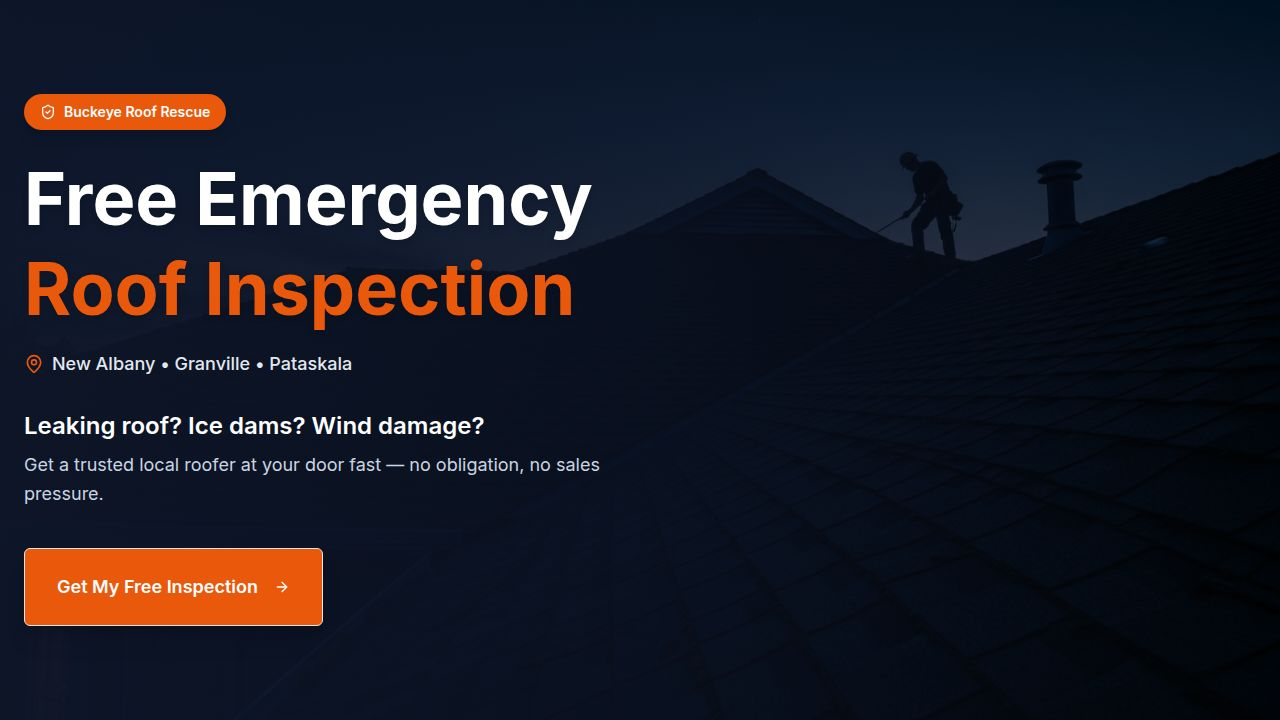
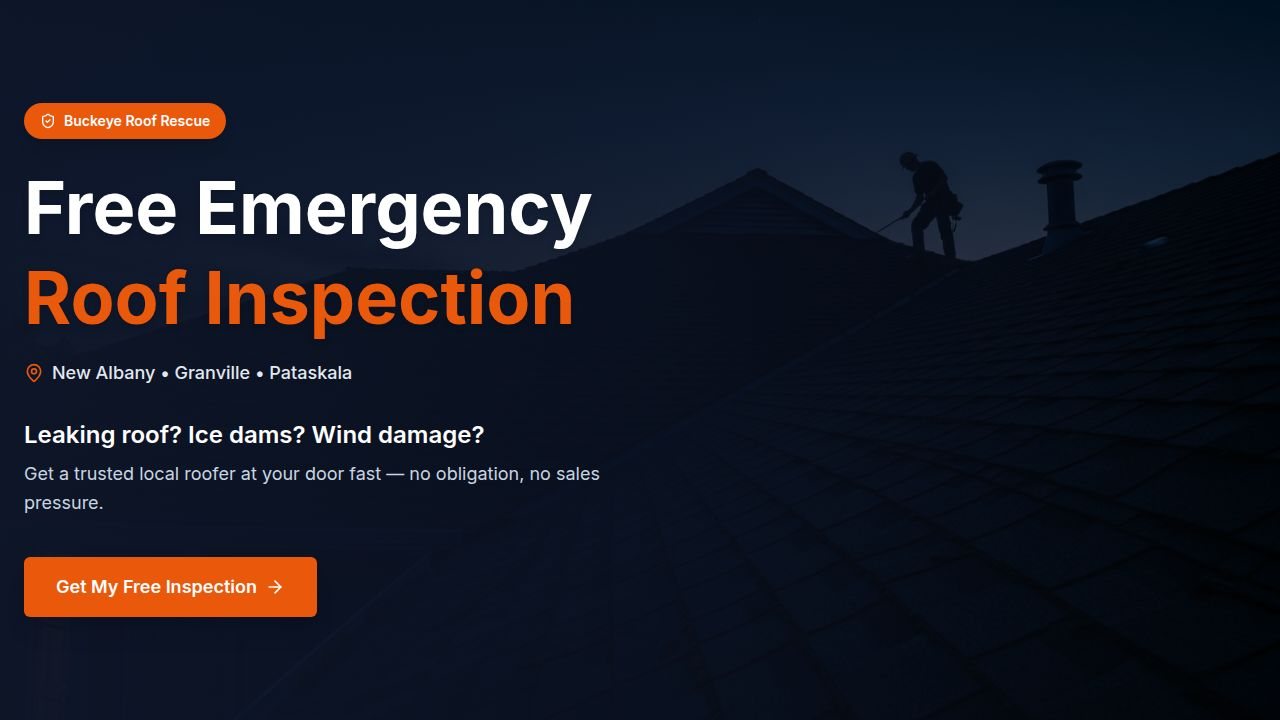
Fix button not navigating to the form page
Update the home page to correctly navigate to the form by using a span element instead of a button inside the Link component.

Replit-Commit-Author: Agent
Replit-Commit-Session-Id: 16654e8d-c666-4329-ae39-b5163822bd68
Replit-Commit-Checkpoint-Type: full_checkpoint
Replit-Commit-Event-Id: c90679b7-73d5-4464-ae3b-1be7e6a32a24
Replit-Commit-Screenshot-Url: https://storage.googleapis.com/screenshot-production-us-central1/9f2d9c85-0de7-418f-922d-b9dae9df98e9/16654e8d-c666-4329-ae39-b5163822bd68/MO8nQp4
Replit-Helium-Checkpoint-Created: true

diff --git a/client/src/pages/home.tsx b/client/src/pages/home.tsx
@@ -41,13 +41,13 @@ export default function Home() {
               Get a trusted local roofer at your door fast — no obligation, no sales pressure.
             </p>
 
-            <Link href="/form">
-              <Button 
-                className="bg-[#EA580C] hover:bg-[#c2410c] text-white text-lg px-8 py-6 h-auto rounded-md font-semibold transition-all shadow-xl hover:translate-y-[-2px] hover:shadow-2xl"
+            <Link href="/form" className="inline-block">
+              <span 
+                className="inline-flex items-center bg-[#EA580C] hover:bg-[#c2410c] text-white text-lg px-8 py-4 rounded-md font-semibold transition-all shadow-xl hover:translate-y-[-2px] hover:shadow-2xl cursor-pointer"
               >
                 Get My Free Inspection
                 <ArrowRight className="ml-2 w-5 h-5" />
-              </Button>
+              </span>
             </Link>
           </div>
         </div>
